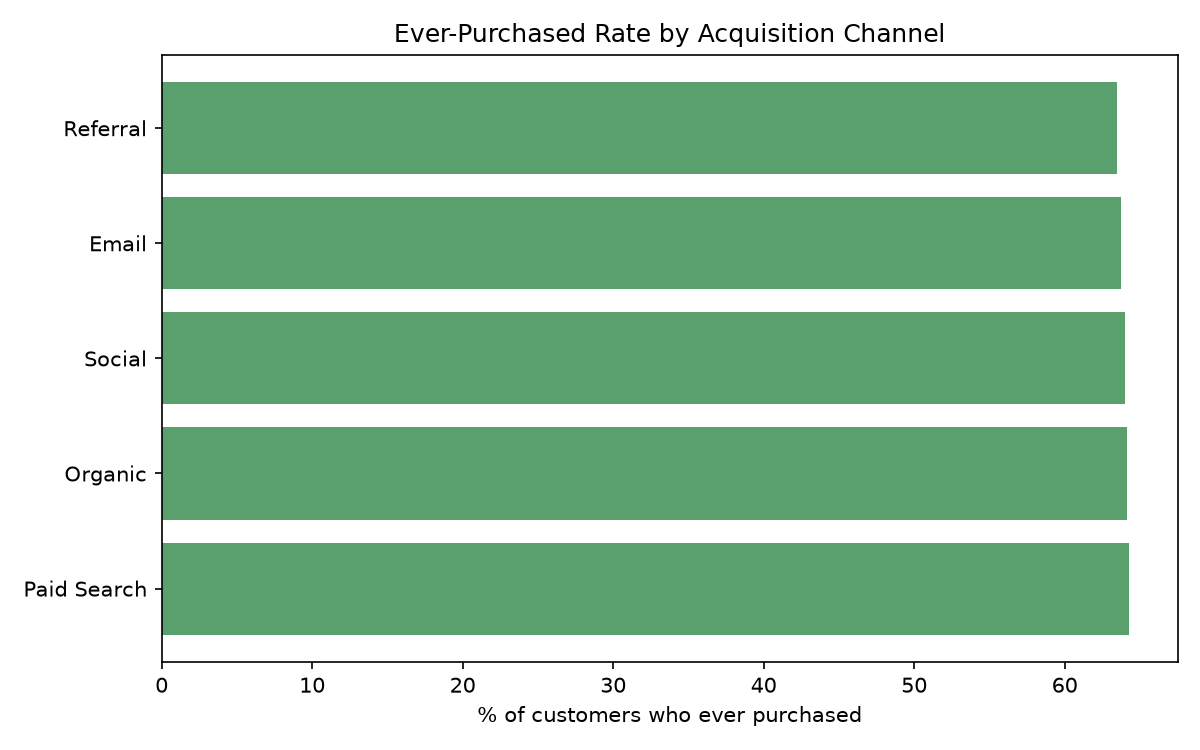
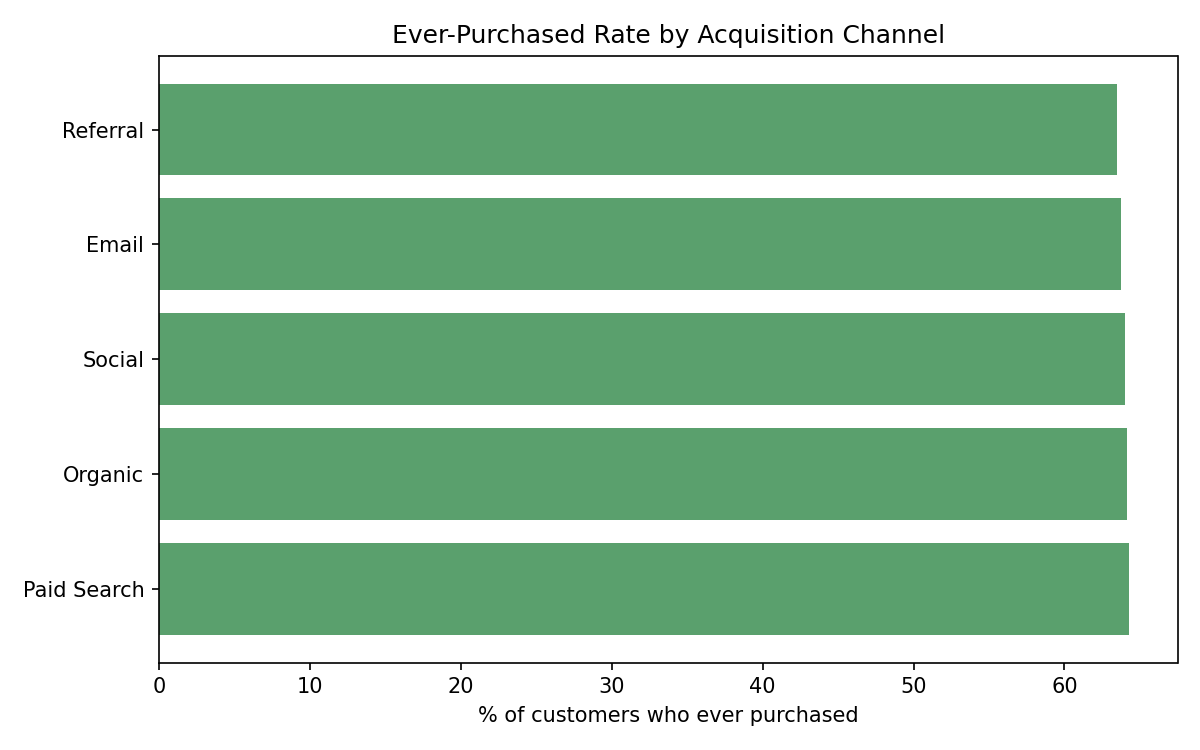
Add live demo mode, skills section, and README polish

diff --git a/dashboard/app.py b/dashboard/app.py
@@ -1,15 +1,26 @@
 """
 dashboard/app.py
 -----------------
-Interactive Streamlit dashboard for the customer lifecycle funnel and the
-Control / Variant_A / Variant_B experiment. Plays the role Tableau / Power
-BI would play against the same warehouse tables in production (see README
-"Connecting a real BI tool" section).
+Interactive dashboard for the customer lifecycle funnel and the
+Control / Variant_A / Variant_B experiment.
+
+Runs in one of two modes, chosen automatically:
+
+  * LIVE mode -- if data/processed/warehouse.db exists (i.e. you've
+    downloaded the real dataset and run `python -m src.pipeline`
+    locally), the dashboard queries it directly.
+
+  * DEMO mode -- otherwise (e.g. a Streamlit Community Cloud deployment,
+    where the real ~200MB licensed dataset isn't bundled), it falls back
+    to the small precomputed result files in dashboard/demo_data/,
+    generated by `python -m src.export_demo_data` from a real run. A
+    banner makes clear which mode is active.
 
 Run:
     streamlit run dashboard/app.py
 """
 
+import json
 import os
 import sys
 
@@ -18,13 +29,59 @@ import plotly.express as px
 import plotly.graph_objects as go
 import streamlit as st
 
-sys.path.insert(0, os.path.dirname(os.path.dirname(os.path.abspath(__file__))))
+ROOT_DIR = os.path.dirname(os.path.dirname(os.path.abspath(__file__)))
+DEMO_DATA_DIR = os.path.join(os.path.dirname(os.path.abspath(__file__)), "demo_data")
+WAREHOUSE_PATH = os.path.join(ROOT_DIR, "data", "processed", "warehouse.db")
+sys.path.insert(0, ROOT_DIR)
 
-from src.ab_testing import _load_customer_group_counts, chi_square_test, group_totals, pairwise_tests
-from src.funnel_analysis import (
-    bounce_rate, customer_step_reach, funnel_by_channel, overall_funnel,
-    revenue_per_converted_customer,
-)
+LIVE_MODE = os.path.exists(WAREHOUSE_PATH)
+
+GROUPS = ["Control", "Variant_A", "Variant_B"]
+
+
+def format_p(p: float) -> str:
+    return "< 0.0001" if p < 0.0001 else f"{p:.4g}"
+
+
+if LIVE_MODE:
+    from src.ab_testing import _load_customer_group_counts, chi_square_test, group_totals, pairwise_tests
+    from src.funnel_analysis import (
+        bounce_rate, customer_step_reach, funnel_by_channel, overall_funnel, revenue_per_converted_customer,
+    )
+
+    reach = customer_step_reach()
+    overall = overall_funnel(reach)
+    by_channel = funnel_by_channel(reach)
+
+    counts = _load_customer_group_counts()
+    totals = group_totals(counts)
+    chi2_stat, chi2_p, chi2_dof = (lambda r: (r["chi2"], r["p_value"], r["dof"]))(chi_square_test(counts))
+    pairwise_rows = [
+        {"group_a": r.group_a, "group_b": r.group_b, "absolute_lift_pp": r.absolute_lift_pp,
+         "p_value": r.p_value, "significant": r.significant}
+        for r in pairwise_tests(counts)
+    ]
+    bounce = bounce_rate()
+    avg_revenue = revenue_per_converted_customer()
+
+else:
+    overall = pd.read_csv(os.path.join(DEMO_DATA_DIR, "funnel_overall.csv"))
+    by_channel = pd.read_csv(os.path.join(DEMO_DATA_DIR, "funnel_by_channel.csv"))
+    by_channel["step_name"] = pd.Categorical(
+        by_channel["step_name"], categories=["view", "click", "add_to_cart", "purchase"], ordered=True
+    )
+
+    totals = pd.read_csv(os.path.join(DEMO_DATA_DIR, "ab_test_totals.csv")).set_index("experiment_group")
+
+    with open(os.path.join(DEMO_DATA_DIR, "ab_test_pairwise.json")) as f:
+        pairwise_rows = json.load(f)
+
+    with open(os.path.join(DEMO_DATA_DIR, "summary_stats.json")) as f:
+        summary = json.load(f)
+    chi2_stat, chi2_p, chi2_dof = summary["chi2"], summary["chi2_p_value"], summary["chi2_dof"]
+    bounce = summary["bounce_rate_pct"]
+    avg_revenue = summary["avg_revenue_per_converted_customer"]
+
 
 st.set_page_config(page_title="Marketing Funnel & Experiment Analytics", layout="wide")
 
@@ -34,8 +91,14 @@ st.caption(
     "(Geetha Sagar Bonthu, CC0) -- see data/README.md for source & citation."
 )
 
-reach = customer_step_reach()
-overall = overall_funnel(reach)
+if not LIVE_MODE:
+    st.info(
+        "**Demo mode** -- showing precomputed results from a real run against "
+        "the full dataset. The dataset itself (~200MB, CC0-licensed but not "
+        "bundled here) isn't present in this environment. Clone the repo and "
+        "follow `data/README.md` to run this dashboard live against it.",
+        icon="ℹ",
+    )
 
 col1, col2, col3, col4 = st.columns(4)
 col1.metric("Total customers", f"{overall.loc[0, 'customers_reached']:,}")
@@ -43,7 +106,7 @@ col2.metric("Ever purchased", f"{overall.loc[len(overall)-1, 'customers_reached'
             f"{overall.loc[len(overall)-1, 'pct_of_customers']}% of customers")
 worst_row = overall.iloc[1:].sort_values("drop_off_pct", ascending=False).iloc[0]
 col3.metric("Biggest drop-off stage", worst_row["step_name"], f"-{worst_row['drop_off_pct']}%")
-col4.metric("Avg. revenue / converted customer", f"${revenue_per_converted_customer():,.2f}")
+col4.metric("Avg. revenue / converted customer", f"${avg_revenue:,.2f}")
 
 st.subheader("Customer lifecycle funnel")
 st.caption(
@@ -57,10 +120,9 @@ fig_funnel = go.Figure(go.Funnel(
     textinfo="value+percent initial",
 ))
 st.plotly_chart(fig_funnel, use_container_width=True)
-st.caption(f"Bounce rate (share of all events that are 'bounce'): {bounce_rate()}%")
+st.caption(f"Bounce rate (share of all events that are 'bounce'): {bounce}%")
 
 st.subheader("Ever-purchased rate by acquisition channel")
-by_channel = funnel_by_channel(reach)
 purchased_by_channel = by_channel[by_channel["step_name"] == "purchase"].sort_values(
     "pct_of_signups", ascending=False
 )
@@ -77,25 +139,21 @@ st.caption(
     "robustness check. See src/ab_testing.py for the full treatment."
 )
 
-counts = _load_customer_group_counts()
-totals = group_totals(counts)
-chi2 = chi_square_test(counts)
-
 c1, c2, c3 = st.columns(3)
-for col, group in zip([c1, c2, c3], ["Control", "Variant_A", "Variant_B"]):
+for col, group in zip([c1, c2, c3], GROUPS):
     col.metric(group, f"{totals.loc[group, 'purchase_rate']:.2%}",
                f"n={int(totals.loc[group, 'total_events']):,} events")
 
-st.caption(f"3-group chi-square: χ²={chi2['chi2']:.1f}, p={chi2['p_value']:.2g}")
+st.caption(f"3-group chi-square: χ²={chi2_stat:.1f}, p={format_p(chi2_p)}, dof={chi2_dof}")
 
 pairwise_df = pd.DataFrame([
     {
-        "Comparison": f"{r.group_a} vs {r.group_b}",
-        "Lift (pp)": round(r.absolute_lift_pp, 2),
-        "p-value": f"{r.p_value:.2g}",
-        "Significant (Bonferroni)": "Yes" if r.significant else "No",
+        "Comparison": f"{r['group_a']} vs {r['group_b']}",
+        "Lift (pp)": round(r["absolute_lift_pp"], 2),
+        "p-value": format_p(r["p_value"]),
+        "Significant (Bonferroni)": "Yes" if r["significant"] else "No",
     }
-    for r in pairwise_tests(counts)
+    for r in pairwise_rows
 ])
 st.dataframe(pairwise_df, use_container_width=True, hide_index=True)
 

diff --git a/src/export_demo_data.py b/src/export_demo_data.py
@@ -1,0 +1,82 @@
+"""
+export_demo_data.py
+--------------------
+Exports small, precomputed result tables to dashboard/demo_data/ so the
+dashboard can run in "demo mode" without the real dataset present --
+e.g. for a Streamlit Community Cloud deployment, where bundling the real
+~200MB licensed dataset isn't practical or appropriate.
+
+This does NOT replace the real pipeline -- it's a snapshot of results
+*produced by* the real pipeline, for display purposes only. Run it once,
+locally, after `python -m src.pipeline` has populated the real warehouse:
+
+    python -m src.export_demo_data
+
+The output files are small (a few KB total) and are committed to the
+repo, unlike the raw CSVs / warehouse.db.
+"""
+
+import json
+import logging
+import os
+
+from src.ab_testing import (
+    _load_customer_group_counts, chi_square_test, cluster_bootstrap_ci, group_totals, pairwise_tests,
+)
+from src.funnel_analysis import (
+    bounce_rate, customer_step_reach, funnel_by_channel, overall_funnel, revenue_per_converted_customer,
+)
+
+logging.basicConfig(level=logging.INFO, format="%(asctime)s [%(levelname)s] %(message)s")
+logger = logging.getLogger(__name__)
+
+OUT_DIR = os.path.join(os.path.dirname(os.path.dirname(__file__)), "dashboard", "demo_data")
+
+
+def run() -> None:
+    os.makedirs(OUT_DIR, exist_ok=True)
+
+    reach = customer_step_reach()
+    overall = overall_funnel(reach)
+    overall.to_csv(os.path.join(OUT_DIR, "funnel_overall.csv"), index=False)
+
+    by_channel = funnel_by_channel(reach)
+    by_channel.to_csv(os.path.join(OUT_DIR, "funnel_by_channel.csv"), index=False)
+
+    counts = _load_customer_group_counts()
+    totals = group_totals(counts).reset_index()
+    totals.to_csv(os.path.join(OUT_DIR, "ab_test_totals.csv"), index=False)
+
+    pairwise = [
+        {
+            "group_a": r.group_a, "group_b": r.group_b,
+            "rate_a": float(r.rate_a), "rate_b": float(r.rate_b),
+            "absolute_lift_pp": float(r.absolute_lift_pp),
+            "z_stat": float(r.z_stat), "p_value": float(r.p_value),
+            "significant": bool(r.significant),
+        }
+        for r in pairwise_tests(counts)
+    ]
+    with open(os.path.join(OUT_DIR, "ab_test_pairwise.json"), "w") as f:
+        json.dump(pairwise, f, indent=2)
+
+    bootstrap = cluster_bootstrap_ci(counts)
+    bootstrap.to_csv(os.path.join(OUT_DIR, "ab_test_bootstrap.csv"), index=False)
+
+    chi2 = chi_square_test(counts)
+    summary = {
+        "chi2": float(chi2["chi2"]),
+        "chi2_p_value": float(chi2["p_value"]),
+        "chi2_dof": int(chi2["dof"]),
+        "bounce_rate_pct": float(bounce_rate()),
+        "avg_revenue_per_converted_customer": float(revenue_per_converted_customer()),
+        "total_customers": int(overall.loc[0, "customers_reached"]),
+    }
+    with open(os.path.join(OUT_DIR, "summary_stats.json"), "w") as f:
+        json.dump(summary, f, indent=2)
+
+    logger.info("Exported demo data to %s", OUT_DIR)
+
+
+if __name__ == "__main__":
+    run()

diff --git a/README.md b/README.md
@@ -1,5 +1,9 @@
 # Marketing Funnel & Experiment Analytics
 
+![CI](https://github.com/rohithsure2000/funnel-analytics-platform/actions/workflows/ci.yml/badge.svg)
+![License: MIT](https://img.shields.io/badge/License-MIT-yellow.svg)
+![Python 3.11+](https://img.shields.io/badge/python-3.11%2B-blue.svg)
+
 End-to-end analytics platform on a real, public e-commerce dataset: builds
 a customer conversion funnel, measures where customers drop off, and
 evaluates a 3-arm onboarding/checkout experiment (Control / Variant_A /
@@ -8,6 +12,41 @@ source data that would have quietly produced a wrong analysis if ignored.
 
 Built by **[Rohith Sure](https://github.com/rohithsure2000)** — Data
 Analyst / Data Scientist (MS Data Science, Stevens Institute of Technology).
+
+**Live demo:** _add your Streamlit Community Cloud link here once deployed
+— see "Deploying the live demo" below_
+
+## Skills demonstrated
+
+- **SQL** — schema design, window functions, multi-table joins (`sql/`)
+- **Statistical testing** — chi-square, two-proportion z-tests with a
+  Bonferroni correction, and a customer-clustered bootstrap for a
+  pseudo-replication check (`src/ab_testing.py`)
+- **Data quality diagnosis** — caught and worked around two real issues
+  in the source data instead of taking column names at face value (see
+  below)
+- **ETL / pipeline design** — validation, cleaning, and idempotent
+  loading (`src/pipeline.py`)
+- **Python** — pandas, NumPy, SciPy, Matplotlib, Plotly
+- **Dashboarding** — interactive Streamlit app with a live/demo-mode
+  fallback (`dashboard/app.py`)
+- **R** — an equivalent implementation of the core statistical test
+  (`analysis/ab_test.R`)
+
+## Quick look
+
+![Customer lifecycle funnel](reports/figures/overall_funnel.png)
+
+| | |
+|---|---:|
+| Customers analyzed | 99,997 |
+| Ever purchased | 64,035 (64.0%) |
+| Biggest drop-off | Cart → purchase (32.0%) |
+| Avg. revenue / converted customer | $146.31 |
+| Best experiment arm | Variant_B, **+1.56pp** over Control (p < 0.0001) |
+
+Full breakdown, methodology, and the two data-quality findings that shaped
+this analysis are below.
 
 ## The data
 
@@ -84,8 +123,6 @@ required (see `src/db.py`).
 | Added to cart | 94,228 | 94.2% | 3.6% |
 | **Purchased** | **64,035** | **64.0%** | **32.0%** |
 
-![Customer lifecycle funnel](reports/figures/overall_funnel.png)
-
 Bounce rate (share of all events that are `bounce`): **9.5%**. Average
 lifetime revenue per converted customer: **$146.31**. The steepest
 drop-off by far is cart → purchase — nearly a third of customers who add
@@ -142,11 +179,13 @@ funnel-analytics-platform/
 │   ├── pipeline.py                 # ETL: validate + clean + load
 │   ├── sessionize.py                # derive real sessions from timestamps
 │   ├── funnel_analysis.py            # customer lifecycle funnel + charts
-│   └── ab_testing.py                 # 3-group test + clustered bootstrap
+│   ├── ab_testing.py                 # 3-group test + clustered bootstrap
+│   └── export_demo_data.py            # snapshot results for cloud deployment
 ├── analysis/
 │   └── ab_test.R                      # R equivalent of the core test
 ├── dashboard/
-│   └── app.py                          # Streamlit dashboard
+│   ├── app.py                          # Streamlit dashboard (live + demo mode)
+│   └── demo_data/                       # precomputed results for cloud deployment
 ├── tests/
 │   ├── test_sessionize.py
 │   ├── test_funnel_analysis.py
@@ -188,6 +227,7 @@ python -m src.pipeline           # clean, sessionize, and load into the warehous
 python -m src.sessionize         # (optional) sanity-check the session lengths
 python -m src.funnel_analysis    # prints the funnel table, saves charts
 python -m src.ab_testing         # prints the experiment results
+python -m src.export_demo_data   # (optional) refresh dashboard/demo_data/ for cloud deployment
 # or, equivalently, the core test in R:
 Rscript analysis/ab_test.R data/processed/warehouse.db
 ```
@@ -197,6 +237,24 @@ Rscript analysis/ab_test.R data/processed/warehouse.db
 ```bash
 streamlit run dashboard/app.py
 ```
+If `data/processed/warehouse.db` exists (i.e. you've run the pipeline),
+the dashboard queries it live. Otherwise it automatically falls back to
+the precomputed results in `dashboard/demo_data/` and shows a banner
+saying so — this is what makes the cloud deployment below possible
+without bundling the real ~200MB dataset.
+
+### Deploying the live demo
+
+Since `dashboard/app.py` falls back to `dashboard/demo_data/` when there's
+no local warehouse, it can be deployed as-is to
+[Streamlit Community Cloud](https://streamlit.io/cloud) (free) without
+needing the real dataset present in the cloud environment:
+
+1. Push this repo to GitHub (steps below, if not done yet).
+2. Go to share.streamlit.io, sign in with GitHub, click "New app."
+3. Point it at this repo, branch `main`, file path `dashboard/app.py`.
+4. Deploy. It'll show the demo-mode banner and the precomputed real results.
+5. Copy the resulting URL into the "Live demo" line at the top of this README.
 
 ### Run with Docker
 
